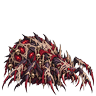
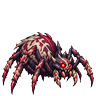
Sprites HD de la década de Bestias, Riakis y arañas normales

diff --git a/src/battleSprites.js b/src/battleSprites.js
@@ -140,9 +140,15 @@ Object.assign(ENEMY_SPRITES, MONSTER_SPRITES);
 // reemplazan a los generados. Se sirven como archivos (96x96) en vez de
 // base64. Para sumar más: guardar el PNG en src/assets/enemigos/<id>.png y
 // agregar el id acá.
-const HD_ENEMY_IDS = ['goblin_guerrero','goblin_arquero','goblin_saqueador','goblin_chaman','tarantula_cazadora','jefe_goblin','hobgoblin','gilgoblin','ogro',
-  'matriarca_telaranha','reina_telaranha','viuda_alfa','saltadora_alfa','gran_tejedora','devoradora_nido','arana_caparazon','viuda_carmesi','matriarca_abisal','reina_devoradora','matriarca_escarlata'];
-HD_ENEMY_IDS.forEach(id=>{ ENEMY_SPRITES[id] = `src/assets/enemigos/${id}.png?v=2`; });
+const HD_ENEMY_IDS = [
+  'arana_caparazon', 'bestia_carmesi', 'buitre_corrupto', 'devoradora_nido', 'gilgoblin', 'goblin_arquero',
+  'goblin_chaman', 'goblin_guerrero', 'goblin_saqueador', 'gran_lobo_hoja', 'gran_tejedora', 'halcon_guerra',
+  'hobgoblin', 'jabali_hierro', 'jefe_goblin', 'lince_sombrio', 'loba_acantilado', 'lobo_quimera',
+  'matriarca_abisal', 'matriarca_escarlata', 'matriarca_telaranha', 'ogro', 'oso_acorazado', 'oso_cuevas',
+  'oso_roca_lunar', 'reina_devoradora', 'reina_telaranha', 'rey_manada', 'riakis', 'saltadora_alfa',
+  'tarantula_cazadora', 'tarantula_saltarina', 'tarantula_tejedora', 'tigre_sable', 'viuda_alfa', 'viuda_carmesi',
+  'viuda_venenosa'];
+HD_ENEMY_IDS.forEach(id=>{ ENEMY_SPRITES[id] = `src/assets/enemigos/${id}.png?v=3`; });
 // Invocaciones de las fases de jefe (2026-10-02): reusan sprites existentes.
 ENEMY_SPRITES.cria_arana = ENEMY_SPRITES.tarantula_cazadora;
 ENEMY_SPRITES.cangrejo_isla = ENEMY_SPRITES.cangrejo_gigante;

diff --git a/src/game.js b/src/game.js
@@ -2,8 +2,8 @@
 
 import { supabase } from './supabaseClient.js';
 import * as auth from './auth.js';
-import { syncBattleStage, playBattleAnim } from './battleStage.js?v=73';
-import { CLASS_SPRITES, ENEMY_SPRITES, playerSpriteFor } from './battleSprites.js?v=71';
+import { syncBattleStage, playBattleAnim } from './battleStage.js?v=74';
+import { CLASS_SPRITES, ENEMY_SPRITES, playerSpriteFor } from './battleSprites.js?v=72';
 
 /* ============================================================
    DATA

diff --git a/src/battleStage.js b/src/battleStage.js
@@ -13,7 +13,7 @@
 // combat.enemies/combat.allies/combat.lastActor/combat.lastAction y dibuja.
 // No aplica daño, no decide turnos, no cambia HP.
 
-import { CLASS_SPRITES, ALLY_SPRITES, ENEMY_SPRITES, playerSpriteFor, RACE_SIZE } from './battleSprites.js?v=71';
+import { CLASS_SPRITES, ALLY_SPRITES, ENEMY_SPRITES, playerSpriteFor, RACE_SIZE } from './battleSprites.js?v=72';
 
 const TILE = 16;
 const SCALE = 3;

diff --git a/index.html b/index.html
@@ -120,6 +120,6 @@
   <div class="footer-note">Dungeon &amp; Stone — recreación jugable inspirada en el juego descrito en la novela «Sobreviviendo al juego siendo un bárbaro». Tu progreso se guarda automáticamente en tu cuenta.</div>
 </div>
 
-<script type="module" src="./src/game.js?v=192"></script>
+<script type="module" src="./src/game.js?v=193"></script>
 </body>
 </html>
